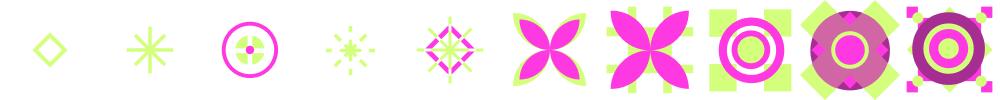
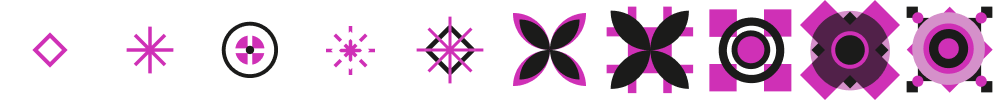
fix: speaker, home page

diff --git a/src/pages/index.tsx b/src/pages/index.tsx
@@ -69,11 +69,15 @@ export default function Page({ theme }: { theme: string }) {
 
 const Shader = () => {
   const { gl, canvas, renderer } = useOGL();
+  useEffect(() => {
+    console.log(canvas);
+    console.log(renderer);
+  }, []);
 
   const renderTarget = useMemo(() => new RenderTarget(gl), []);
 
   const mousePos = useRef({ old: { x: 0, y: 0 }, new: { x: 0, y: 0 } });
-  const mouseAccel = useRef(0);
+  const mouseDir = useRef({ x: 1, y: 1 });
 
   const mesh = new Mesh(gl, {
     geometry: new Triangle(gl),
@@ -83,9 +87,10 @@ const Shader = () => {
       uniforms: {
         uTime: { value: 0.0 },
         uMouse: { value: [0.0, 0.0] },
-        uResolution: { value: [gl.canvas.width, gl.canvas.height] },
+        uDisplacement: { value: [0.0, 0.0] },
+        uResolution: { value: [renderer.width, renderer.height] },
         uMetablobs: { value: [] },
-        uSpeed: { value: matchMedia("(pointer:fine)").matches ? 4 : 4 },
+        uSpeed: { value: matchMedia("(pointer:fine)").matches ? 1 : 1 },
         uMobile: { value: matchMedia("(pointer:fine)").matches ? false : true },
       },
     }),
@@ -110,9 +115,15 @@ const Shader = () => {
         const mO = mousePos.current.old;
         const mN = mousePos.current.new;
 
-        if (mouseAccel.current < 50)
-          mouseAccel.current +=
-            10 * Math.sqrt(Math.pow(mN.x - mO.x, 2) + Math.pow(mN.y - mO.y, 2));
+        const deltaX = (mN.x - mO.x) * renderer.width;
+        const deltaY = (mN.y - mO.y) * renderer.height;
+
+        console.log("Deltas:", deltaX, deltaY);
+        if (deltaX !== 0 && deltaY !== 0) {
+          mouseDir.current.x = Math.abs(deltaX) > 1 ? Math.sign(deltaX) : 0;
+          mouseDir.current.y = Math.abs(deltaY) > 1 ? Math.sign(deltaY) : 0;
+        }
+
         const rect = gl.canvas.getBoundingClientRect();
         const x = e.clientX / rect.width - 0.5;
         // const y = 1.0 - e.clientY / gl.canvas.height;
@@ -131,12 +142,47 @@ const Shader = () => {
     }
   }, []);
 
+  useEffect(() => {
+    const handleResize = () => {
+      const rect = gl.canvas.getBoundingClientRect();
+      console.log(renderer.dpr);
+      console.log("Rect", rect.width, rect.height);
+      console.log("Canvas", gl.canvas.width, gl.canvas.height);
+      console.log("Renderer", renderer.width, renderer.height);
+      mesh.program.uniforms.uResolution.value = [
+        renderer.width,
+        renderer.height,
+      ];
+    };
+    window.addEventListener("resize", () => {
+      handleResize();
+    });
+    return () => {
+      window.removeEventListener("resize", () => {
+        handleResize();
+      });
+    };
+  }, []);
+
   useFrame((root, time) => {
     mesh.program.uniforms.uTime.value = time * 0.001;
-    mesh.program.uniforms.uMouse.value = [
-      mousePos.current.old.x,
-      mousePos.current.old.y,
-    ];
+    const deltaX =
+      (mousePos.current.new.x - mousePos.current.old.x) * renderer.width;
+    const deltaY =
+      (mousePos.current.new.y - mousePos.current.old.y) * renderer.height;
+
+    mesh.program.uniforms.uDisplacement.value[0] += 0.01 * mouseDir.current.x;
+    mesh.program.uniforms.uDisplacement.value[1] += 0.01 * mouseDir.current.y;
+    // console.log(deltaX, deltaY);
+    // if (deltaX !== 0 || deltaY !== 0) {
+    //   mesh.program.uniforms.uMouse.value = [deltaX, deltaY];
+    // }
+    if (deltaX !== 0 || deltaY !== 0) {
+      mesh.program.uniforms.uMouse.value = [
+        mousePos.current.new.x,
+        mousePos.current.new.y,
+      ];
+    }
     // if (mouseAccel.current > 0.5) mouseAccel.current *= 0.9; // Apply damping to decelerate more naturally
     // if (matchMedia("(pointer:fine)").matches)
     //   mesh.program.uniforms.uSpeed.value = mouseAccel.current;
@@ -152,11 +198,7 @@ const Shader = () => {
     renderer.render({ scene: mesh, target: renderTarget });
   });
 
-  return (
-    <Fragment>
-      <FinalScene texture={renderTarget.texture} />
-    </Fragment>
-  );
+  return <FinalScene texture={renderTarget.texture} />;
 };
 
 export async function getStaticProps() {

diff --git a/src/components/Shaders/FinalScene.tsx b/src/components/Shaders/FinalScene.tsx
@@ -29,9 +29,12 @@ export function FinalScene({ texture }: { texture: any }) {
 
   const testUniforms = useMemo(
     () => ({
+      // targetColor: "#FF39E1",
+      // secondColor: "#0a0a0a",
+      // background: "#0a0a0a",
       targetColor: "#FF39E1",
       secondColor: "#0a0a0a",
-      background: "#0a0a0a",
+      background: "#ffffff",
       speed: 1.0,
     }),
     [],
@@ -49,18 +52,18 @@ export function FinalScene({ texture }: { texture: any }) {
     );
   });
 
-  const { gl, size } = useOGL();
+  const { gl, size, renderer } = useOGL();
 
   const [tiles, setTiles] = useState<Texture>(
     new Texture(gl, {
-      generateMipmaps: false,
+      // generateMipmaps: false,
     }),
   );
 
   useEffect(() => {
     console.log(gl);
     const tex = new Texture(gl, {
-      generateMipmaps: false,
+      // generateMipmaps: false,
     });
     const img = new Image();
     img.src = tilesheet.src;
@@ -85,6 +88,7 @@ export function FinalScene({ texture }: { texture: any }) {
           uTilesheet: {
             value: tiles,
           },
+          uDPR: { value: renderer.dpr },
           uTargetColor: { value: hexToFloatArray(testUniforms.targetColor) },
           uSecondColor: { value: hexToFloatArray(testUniforms.secondColor) },
           uBackground: { value: hexToFloatArray(testUniforms.background) },

diff --git a/src/pages/speakers/index.tsx b/src/pages/speakers/index.tsx
@@ -33,7 +33,7 @@ export default function Page() {
       <section
         className="px-margin relative "
         style={{
-          height: `calc(100svh - ${SPEAKER_OFFSET * speakers.length}rem)`,
+          height: `calc(100svh - var(--navHeight) ${SPEAKER_OFFSET * speakers.length}rem)`,
         }}
       >
         <h1 className="md:pt-8 mx-auto max-w-container sticky bottom-0 text-2xl font-bold mb-12 md:mb-20 top-(--nav-height)">
